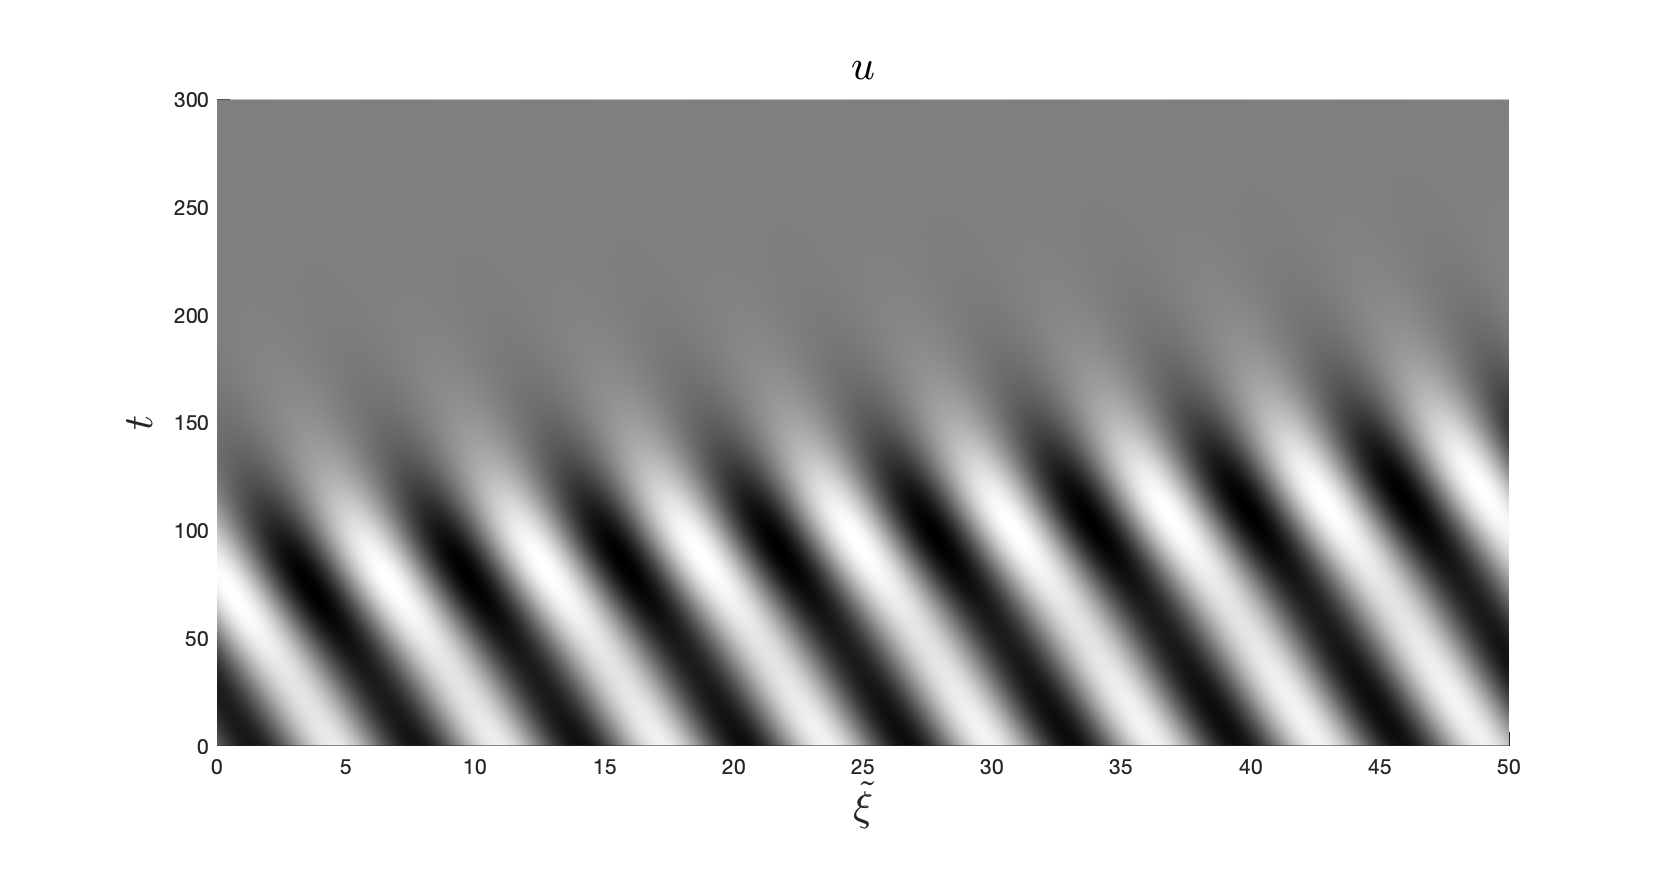
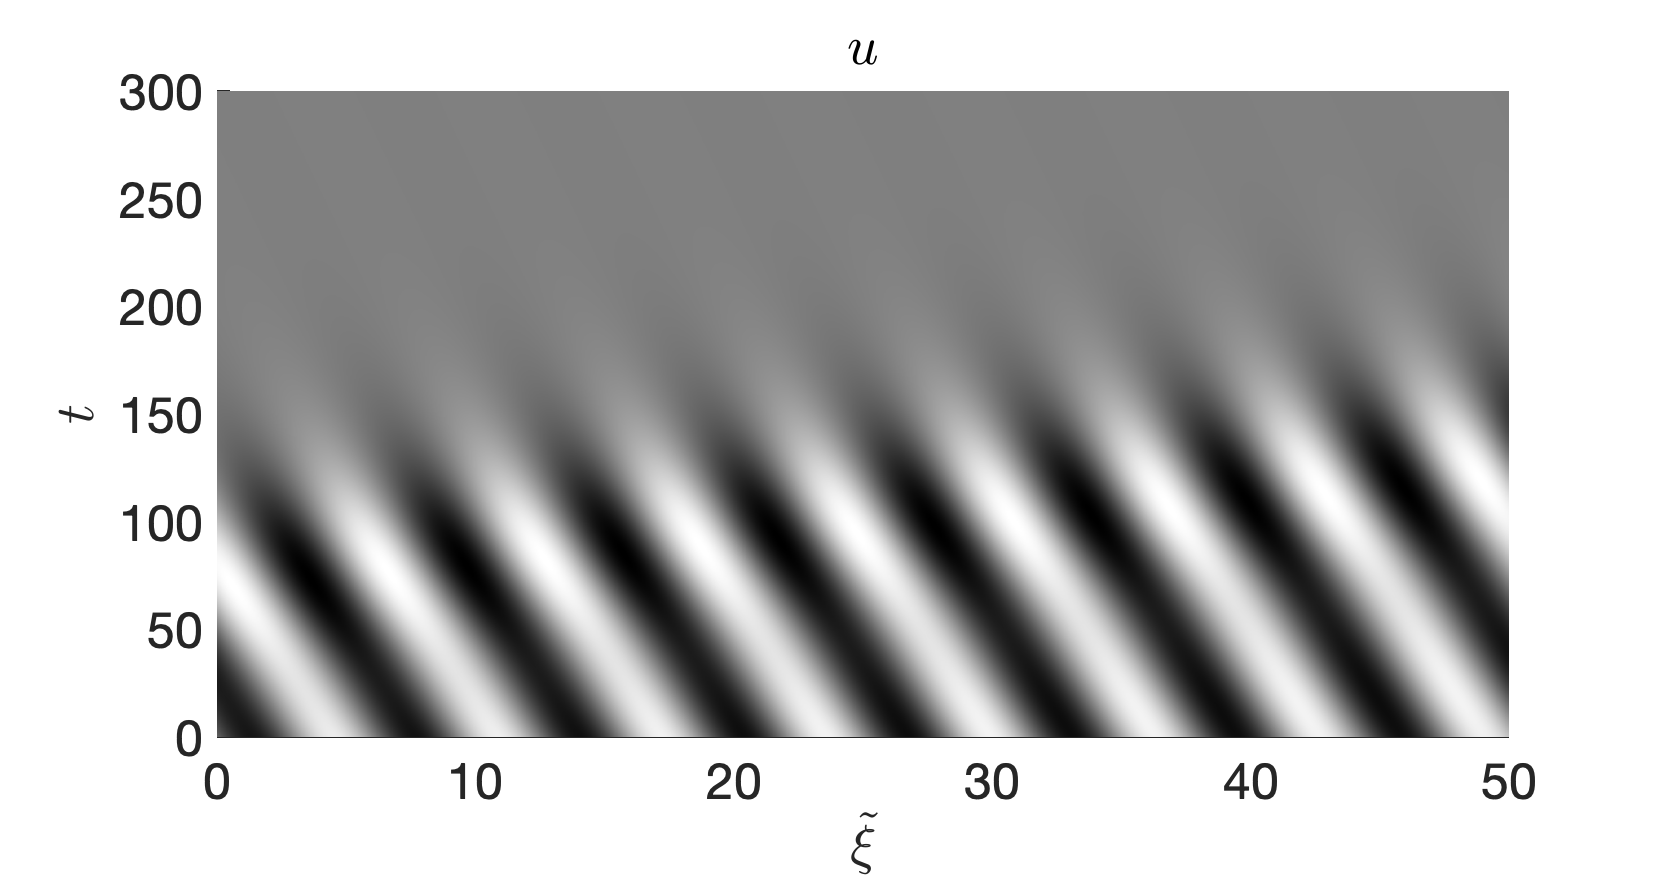
Font size changed

diff --git a/Pattern-forming fronts/fronts.m b/Pattern-forming fronts/fronts.m
@@ -102,12 +102,13 @@ s = pcolor(Xmesh,T,U);
 grid off;
 s.EdgeColor="none";
 colormap(flipud(gray))
-xlabel("$\tilde{\xi}$","FontSize",20,"Interpreter","latex")
-ylabel("$t$","FontSize",20,"Interpreter","latex")
-title("$u$","FontSize",20,"Interpreter","latex")
+xlabel("$\tilde{\xi}$","FontSize",35,"Interpreter","latex")
+ylabel("$t$","FontSize",35,"Interpreter","latex")
+title("$u$","FontSize",35,"Interpreter","latex")
 xlim([0,50])
 ylim([0,300])
 pbaspect([4/2 1 1])
+set(gca,'FontSize',24)
 
 set(gcf,"Position",[100, 100, 800, 420])
 
@@ -120,12 +121,13 @@ s = pcolor(Xmesh,T,V);
 grid off;
 s.EdgeColor="none";
 colormap(flipud(gray))
-xlabel("$\tilde{\xi}$","FontSize",20,"Interpreter","latex")
-ylabel("$t$","FontSize",20,"Interpreter","latex")
-title("$v$","FontSize",20,"Interpreter","latex")
+xlabel("$\tilde{\xi}$","FontSize",35,"Interpreter","latex")
+ylabel("$t$","FontSize",35,"Interpreter","latex")
+title("$v$","FontSize",35,"Interpreter","latex")
 xlim([0,50])
 ylim([0,300])
 pbaspect([4/2 1 1])
+set(gca,'FontSize',24)
 
 set(gcf,"Position",[100, 100, 800, 420])
 
@@ -209,12 +211,13 @@ s = pcolor(Xmesh,T,U);
 grid off;
 s.EdgeColor="none";
 colormap(flipud(gray))
-xlabel("$\tilde{\xi}$","FontSize",20,"Interpreter","latex")
-ylabel("$t$","FontSize",20,"Interpreter","latex")
-title("$u$","FontSize",20,"Interpreter","latex")
+xlabel("$\tilde{\xi}$","FontSize",35,"Interpreter","latex")
+ylabel("$t$","FontSize",35,"Interpreter","latex")
+title("$u$","FontSize",35,"Interpreter","latex")
 xlim([0,Xend])
 ylim([0,timeEnd])
 pbaspect([4/2 1 1])
+set(gca,'FontSize',24)
 
 set(gcf,"Position",[100, 100, 800, 420])
 
@@ -227,12 +230,13 @@ s = pcolor(Xmesh,T,V);
 grid off;
 s.EdgeColor="none";
 colormap(flipud(gray))
-xlabel("$\tilde{\xi}$","FontSize",20,"Interpreter","latex")
-ylabel("$t$","FontSize",20,"Interpreter","latex")
-title("$v$","FontSize",20,"Interpreter","latex")
+xlabel("$\tilde{\xi}$","FontSize",35,"Interpreter","latex")
+ylabel("$t$","FontSize",35,"Interpreter","latex")
+title("$v$","FontSize",35,"Interpreter","latex")
 xlim([0,Xend])
 ylim([0,timeEnd])
 pbaspect([4/2 1 1])
+set(gca,'FontSize',24)
 
 set(gcf,"Position",[100, 100, 800, 420])
 
@@ -322,12 +326,13 @@ s = pcolor(Xmesh,T,U);
 grid off;
 s.EdgeColor="none";
 colormap(flipud(gray))
-xlabel("$\tilde{\xi}$","FontSize",20,"Interpreter","latex")
-ylabel("$t$","FontSize",20,"Interpreter","latex")
-title("$u$","FontSize",20,"Interpreter","latex")
+xlabel("$\tilde{\xi}$","FontSize",35,"Interpreter","latex")
+ylabel("$t$","FontSize",35,"Interpreter","latex")
+title("$u$","FontSize",35,"Interpreter","latex")
 xlim([0,Xend])
 ylim([0,timeEnd])
 pbaspect([4/2 1 1])
+set(gca,'FontSize',24)
 
 set(gcf,"Position",[100, 100, 800, 420])
 
@@ -340,12 +345,13 @@ s = pcolor(Xmesh,T,V);
 grid off;
 s.EdgeColor="none";
 colormap(flipud(gray))
-xlabel("$\tilde{\xi}$","FontSize",20,"Interpreter","latex")
-ylabel("$t$","FontSize",20,"Interpreter","latex")
-title("$v$","FontSize",20,"Interpreter","latex")
+xlabel("$\tilde{\xi}$","FontSize",35,"Interpreter","latex")
+ylabel("$t$","FontSize",35,"Interpreter","latex")
+title("$v$","FontSize",35,"Interpreter","latex")
 xlim([0,Xend])
 ylim([0,timeEnd])
 pbaspect([4/2 1 1])
+set(gca,'FontSize',24)
 
 set(gcf,"Position",[100, 100, 800, 420])
 
@@ -438,12 +444,13 @@ s = pcolor(Xmesh,T,U);
 grid off;
 s.EdgeColor="none";
 colormap(flipud(gray))
-xlabel("$\tilde{\xi}$","FontSize",20,"Interpreter","latex")
-ylabel("$t$","FontSize",20,"Interpreter","latex")
-title("$u$","FontSize",20,"Interpreter","latex")
+xlabel("$\tilde{\xi}$","FontSize",35,"Interpreter","latex")
+ylabel("$t$","FontSize",35,"Interpreter","latex")
+title("$u$","FontSize",35,"Interpreter","latex")
 xlim([0,Xend])
 ylim([0,timeEnd])
 pbaspect([4/2 1 1])
+set(gca,'FontSize',24)
 
 set(gcf,"Position",[100, 100, 800, 420])
 
@@ -456,12 +463,13 @@ s = pcolor(Xmesh,T,V);
 grid off;
 s.EdgeColor="none";
 colormap(flipud(gray))
-xlabel("$\tilde{\xi}$","FontSize",20,"Interpreter","latex")
-ylabel("$t$","FontSize",20,"Interpreter","latex")
-title("$v$","FontSize",20,"Interpreter","latex")
+xlabel("$\tilde{\xi}$","FontSize",35,"Interpreter","latex")
+ylabel("$t$","FontSize",35,"Interpreter","latex")
+title("$v$","FontSize",35,"Interpreter","latex")
 xlim([0,Xend])
 ylim([0,timeEnd])
 pbaspect([4/2 1 1])
+set(gca,'FontSize',24)
 
 set(gcf,"Position",[100, 100, 800, 420])
 
@@ -560,12 +568,13 @@ s = pcolor(Xmesh,T,U);
 grid off;
 s.EdgeColor="none";
 colormap(flipud(gray))
-xlabel("$\tilde{\xi}$","FontSize",20,"Interpreter","latex")
-ylabel("$t$","FontSize",20,"Interpreter","latex")
-title("$u$","FontSize",20,"Interpreter","latex")
+xlabel("$\tilde{\xi}$","FontSize",35,"Interpreter","latex")
+ylabel("$t$","FontSize",35,"Interpreter","latex")
+title("$u$","FontSize",35,"Interpreter","latex")
 xlim([0,Xend])
 ylim([0,timeEnd])
 pbaspect([4/2 1 1])
+set(gca,'FontSize',24)
 
 set(gcf,"Position",[100, 100, 800, 420])
 
@@ -578,12 +587,13 @@ s = pcolor(Xmesh,T,V);
 grid off;
 s.EdgeColor="none";
 colormap(flipud(gray))
-xlabel("$\tilde{\xi}$","FontSize",20,"Interpreter","latex")
-ylabel("$t$","FontSize",20,"Interpreter","latex")
-title("$v$","FontSize",20,"Interpreter","latex")
+xlabel("$\tilde{\xi}$","FontSize",35,"Interpreter","latex")
+ylabel("$t$","FontSize",35,"Interpreter","latex")
+title("$v$","FontSize",35,"Interpreter","latex")
 xlim([0,Xend])
 ylim([0,timeEnd])
 pbaspect([4/2 1 1])
+set(gca,'FontSize',24)
 
 set(gcf,"Position",[100, 100, 800, 420])
 
